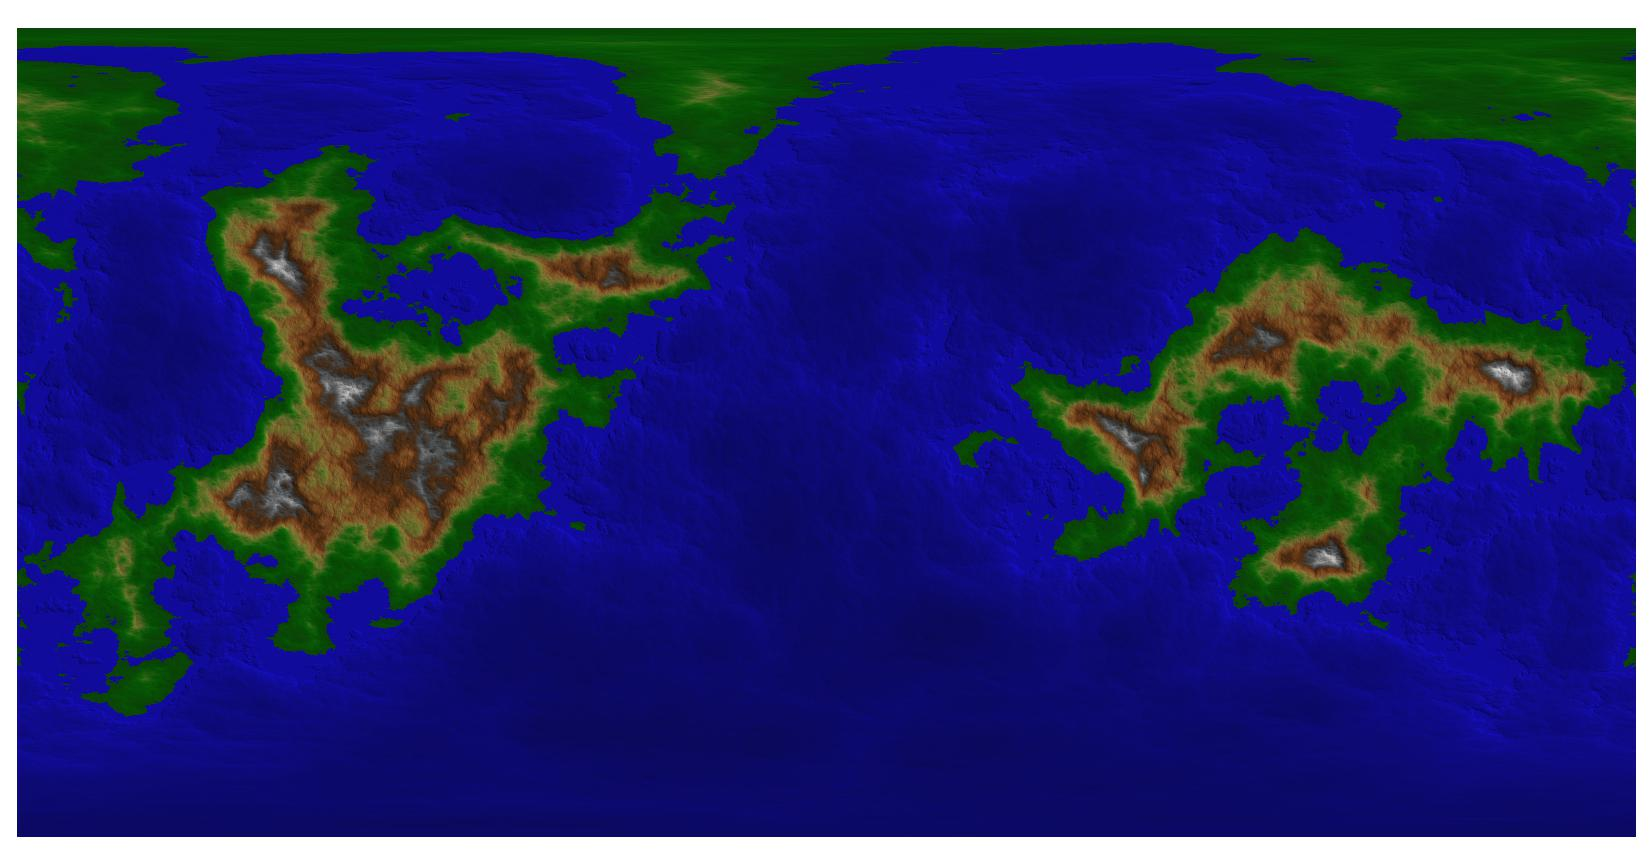
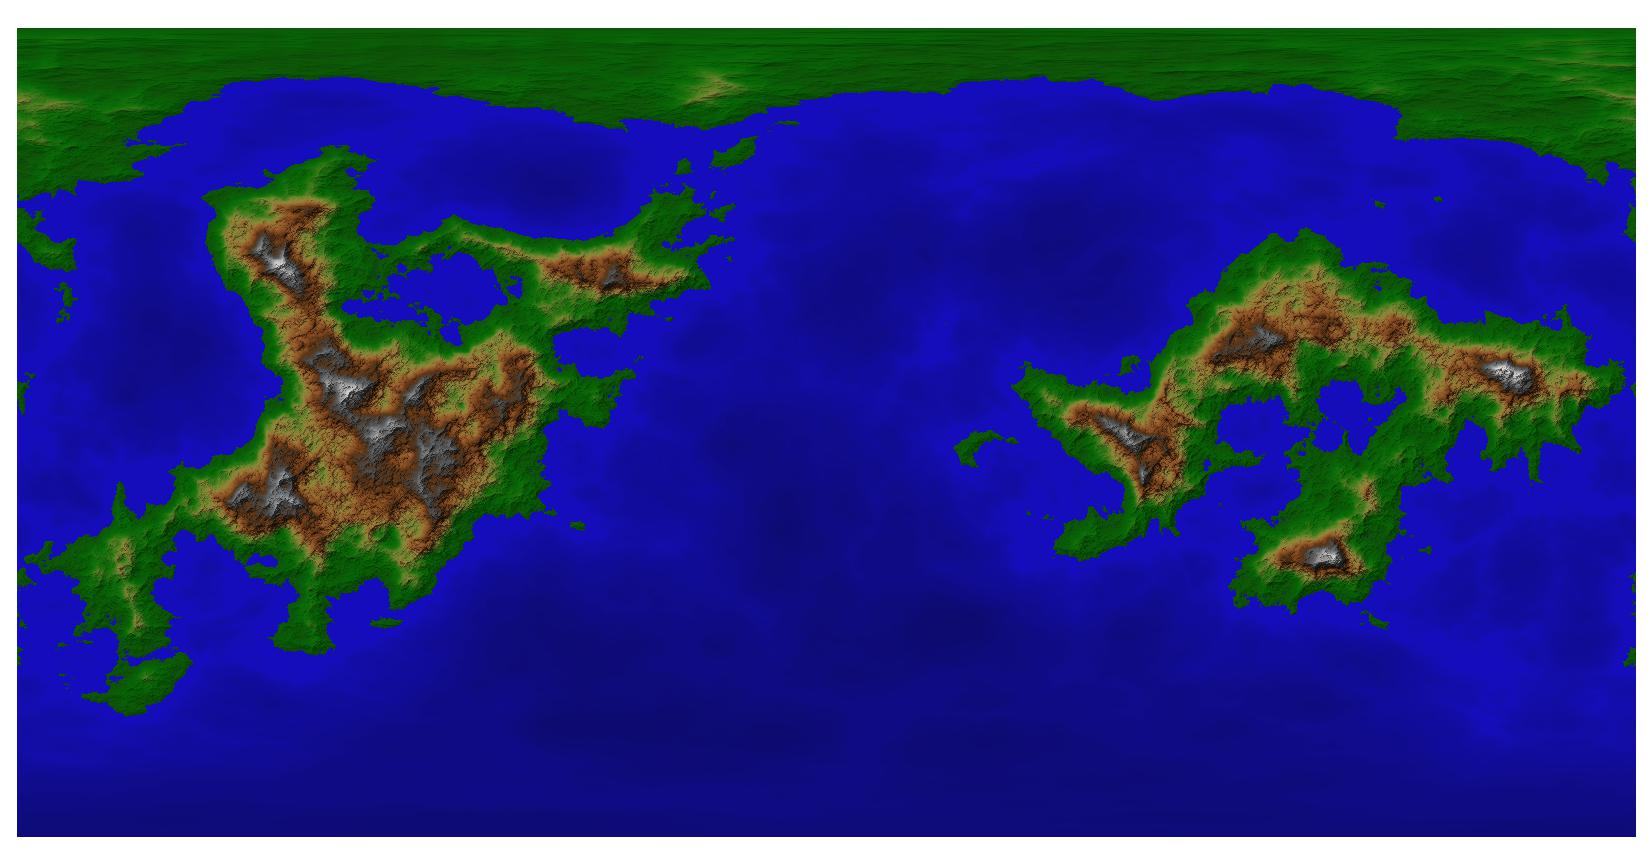
filled in polar region

diff --git a/Readme.md b/Readme.md
@@ -15,3 +15,8 @@ To start, I page through random maps in FT3 looking for one that doesn't overlap
 ### FT3 Settings
 To edit the maps in FT3, I update the editing settings to have the Editing Size set to Custom: 8190. Also, check the box to "Allow Prescale Offset Editing".
 
+## Polar Cleanup
+
+The first edits I'll make are to tidy up what would currently be the northern pole landmass. I want to make it bigger and a bit more round, so I'll fill in some of the gaps between the points. To do this, I'll use the Raise Prescale Offset tool at a value of 0.0164042 (the default value with an extra 0 added after the decimal) and a width/heigh starting at 250 but varying the size as needed. To raise land out of the sea, I start more off-shore and work in to try and avoid a raised area at the old land/sea border.
+
+> *Important:* You don't want to raise or lower too deeply at once, and you want to make the clicks in a non-linear pattern to avoid scarring or gouging on the map.
